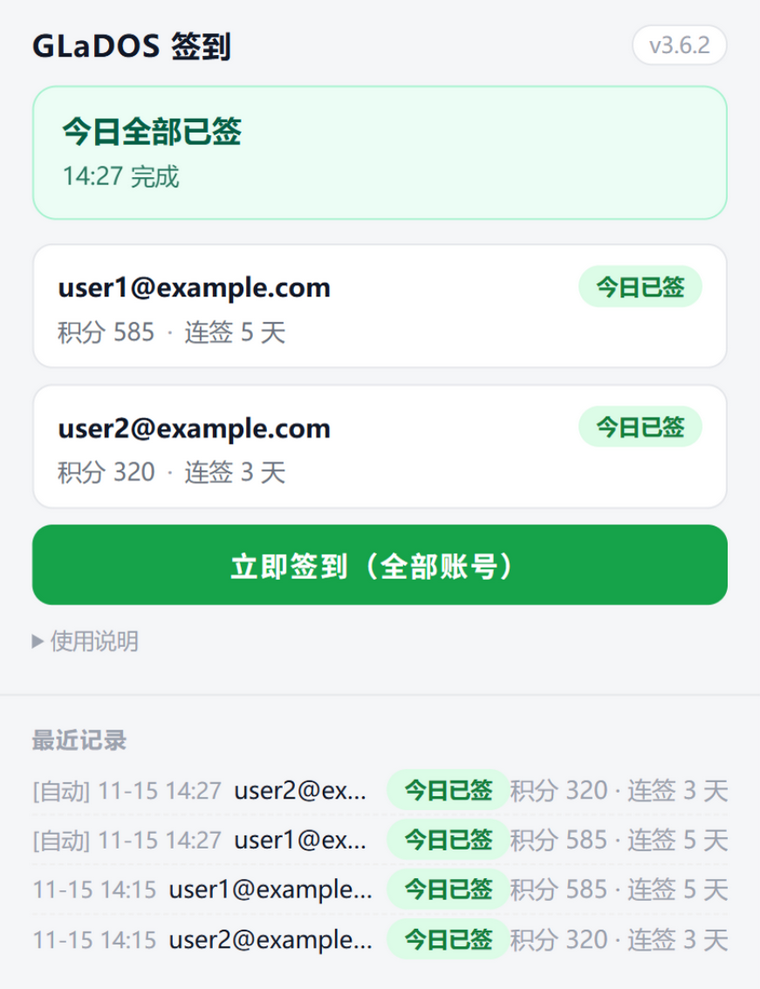
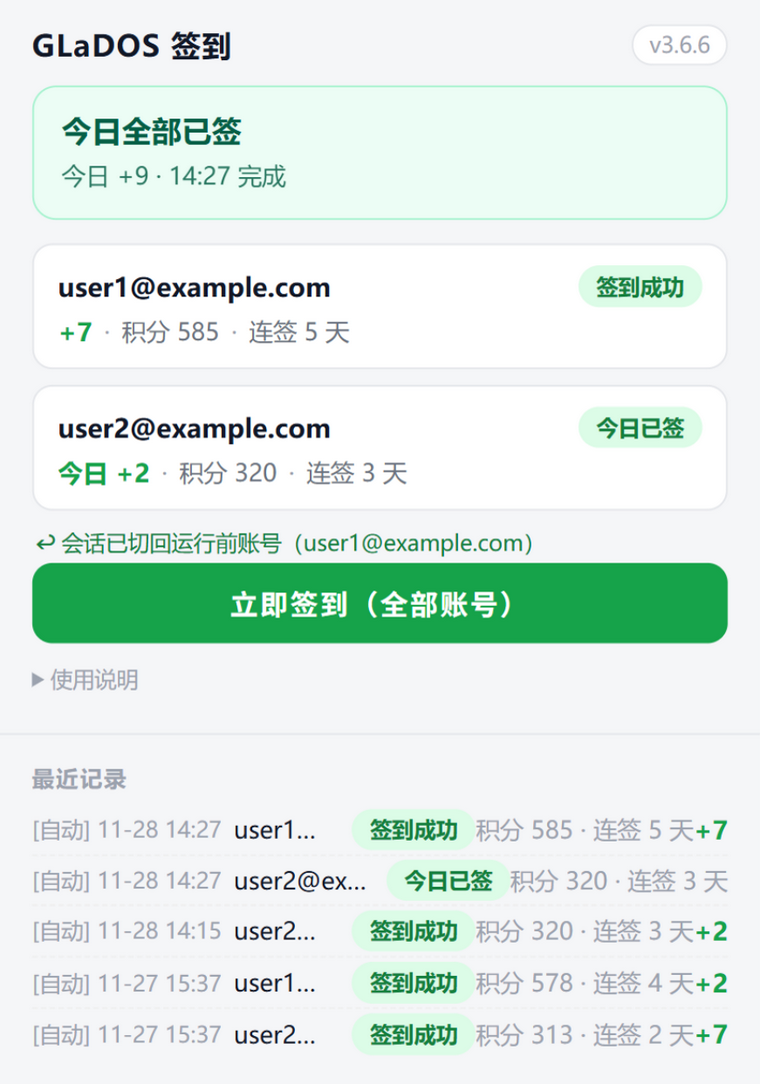
docs: 文档与代码全面同步——人工验证三形态触发、重跑跳过已签账号、今日收益截图重拍 v3.6.6、测试演示邮箱统一 example.com、tests/README 补齐 8 场景

diff --git a/tests/integration.test.js b/tests/integration.test.js
@@ -34,8 +34,8 @@ function makeEnv(opts = {}) {
   let nextTabId = 1;
   let sessionAccount = "orig";
   const accountsState = {
-    orig: { email: "orig@gmail.com", uid: 111222, signed: false, points: 108, streak: 1 },
-    other: { email: "other@gmail.com", uid: 333444, signed: true, points: 340, streak: 5 },
+    orig: { email: "orig@example.com", uid: 111222, signed: false, points: 108, streak: 1 },
+    other: { email: "other@example.com", uid: 333444, signed: true, points: 340, streak: 5 },
   };
   const cookieStore = {
     "gld:sess|glados.rocks|/": { name: "gld:sess", value: "orig_sess", domain: "glados.rocks", path: "/", secure: true },
@@ -121,7 +121,7 @@ function makeEnv(opts = {}) {
     const notFound = { ok: false, status: 404, json: async () => { throw new Error("404"); }, text: async () => "Not Found" };
     if (u === "/api/user/accounts") {
       if (opts.loggedOut || !accountsState[sessionAccount]) return json({ code: -2, message: "session invalid" });
-      return json({ code: 0, data: [{ userId: 333444, email: "other@gmail.com" }] });
+      return json({ code: 0, data: [{ userId: 333444, email: "other@example.com" }] });
     }
     if (u === "/api/user/info") {
       if (opts.loggedOut || !accountsState[sessionAccount]) return json({ code: -2 });
@@ -253,11 +253,11 @@ async function scenarioFreshSuccess() {
     "账号0 真签到成功 +7",
     JSON.stringify(res[0]).slice(0, 200)
   );
-  ok(res[0].who === "orig@gmail.com", "row0 邮箱来自身份接口");
+  ok(res[0].who === "orig@example.com", "row0 邮箱来自身份接口");
   ok(res[0].balance === 108 && res[0].streak === 1, "row0 积分/连签来自 /user/points");
-  ok(res[1].status === "already" && res[1].who === "other@gmail.com", "账号1 切换后已签（身份核实）");
+  ok(res[1].status === "already" && res[1].who === "other@example.com", "账号1 切换后已签（身份核实）");
   ok(res[1].balance === 340, "账号1 积分 340");
-  ok(res[2].status === "restored" && /orig@gmail\.com/.test(res[2].message), "还原行已切回原账号");
+  ok(res[2].status === "restored" && /orig@example.com/.test(res[2].message), "还原行已切回原账号");
   ok(E.switchLog.join(",") === "333444,111222", "切换序列：先切他人 333444，再切回 111222");
   ok(E.store.lastSuccessDate === new Date().toLocaleDateString("sv-SE"), "lastSuccessDate=今日");
   ok(!("glados-retry" in E.alarms), "成功后无重试闹钟");
@@ -373,8 +373,8 @@ async function scenarioRerun() {
   new Function("chrome", src)(E.chrome);
   const today = new Date().toLocaleDateString("sv-SE");
   E.store.history = [
-    { date: today, time: "14:27", who: "orig@gmail.com", status: "success", points: 6 },
-    { date: today, time: "14:27", who: "other@gmail.com", status: "already", points: 0 },
+    { date: today, time: "14:27", who: "orig@example.com", status: "success", points: 6 },
+    { date: today, time: "14:27", who: "other@example.com", status: "already", points: 0 },
   ];
   await E.msgLC.fire({ cmd: "run" }, null, () => {});
   await E.waitDone();
@@ -399,7 +399,7 @@ async function scenarioWatchdog() {
     trigger: "auto",
     tabId: tab.id,
     heartbeat: Date.now() - 100000, // 心跳已死 100 秒
-    accounts: [{ who: "orig@gmail.com", status: "signing" }],
+    accounts: [{ who: "orig@example.com", status: "signing" }],
     snapshot: [{ name: "gld:sess", value: "orig_sess", domain: "glados.rocks", path: "/", secure: true }],
   };
   E.store.running = true;

diff --git a/tests/background.test.js b/tests/background.test.js
@@ -21,18 +21,18 @@ const t = (fn, name, input, want) => {
 };
 
 // ===== findPoints：宽松积分探测 =====
-t(findPoints, "顶层 points", { userId: 1, email: "a@b.c", points: 660 }, 660);
+t(findPoints, "顶层 points", { userId: 1, email: "a@example.com", points: 660 }, 660);
 t(findPoints, "字符串数字", { points: "660.5" }, 660.5);
 t(findPoints, "嵌套两层", { user: { profile: { points: 123 } }, email: "x" }, 123);
 t(findPoints, "PointBalance 大小写", { PointBalance: 88 }, 88);
 t(findPoints, "数组内", { list: [{ points: 7.2 }] }, 7.2);
-t(findPoints, "无字段返回 null", { userId: 1, email: "a@b.c", leftDays: 225 }, null);
+t(findPoints, "无字段返回 null", { userId: 1, email: "a@example.com", leftDays: 225 }, null);
 t(findPoints, "非数字不取", { points: "n/a", email: "x" }, null);
 t(findPoints, "null 输入", null, null);
 t(findPoints, "普通值输入", 42, null);
 
 // ===== findEmail：宽松邮箱探测 =====
-t(findEmail, "顶层 email", { email: "a@b.c", points: 1 }, "a@b.c");
+t(findEmail, "顶层 email", { email: "a@example.com", points: 1 }, "a@example.com");
 t(findEmail, "嵌套 data.user", { code: 0, data: { user: { email: "x@y.z" } } }, "x@y.z");
 t(findEmail, "Email 字段大小写", { Email: "Q@W.E" }, "Q@W.E");
 t(findEmail, "email 字段但无 @ 跳过", { email: "n/a", name: "u", contact: { mail: "m@n.o" } }, "m@n.o");
@@ -40,11 +40,11 @@ t(findEmail, "无邮箱", { username: "user1", points: 5 }, "");
 t(findEmail, "数组形态", [{ email: "p@q.r" }], "p@q.r");
 
 // ===== findUid：用户 id 探测（官方切换接口要 {userId}）=====
-t(findUid, "顶层 id", { id: 333444, email: "a@b.c" }, 333444);
+t(findUid, "顶层 id", { id: 333444, email: "a@example.com" }, 333444);
 t(findUid, "userId", { userId: 111222 }, 111222);
 t(findUid, "嵌套 data.user", { code: 0, data: { user: { id: "999" } } }, 999);
 t(findUid, "字符串数字", { user_id: "123" }, 123);
-t(findUid, "无 id 字段", { email: "a@b.c", points: 5 }, null);
+t(findUid, "无 id 字段", { email: "a@example.com", points: 5 }, null);
 
 console.log(fail === 0 ? "=== background 纯函数单测全部通过 ===" : fail + " 处失败");
 process.exit(fail === 0 ? 0 : 1);

diff --git a/tests/popup.test.js b/tests/popup.test.js
@@ -43,18 +43,18 @@ const check = (name, html, mustHave, mustNotHave) => {
 
 // 1) 横幅-成功态（今天已签 + 完成时间）
 api.renderBanner({ lastSuccessDate: today, history: [{ date: today, time: "14:04", status: "already" }] },
-  [{ who: "a@b.c", status: "already", points: 0, balance: 308, streak: 3 }], false);
+  [{ who: "a@example.com", status: "already", points: 0, balance: 308, streak: 3 }], false);
 check("横幅-成功", captured["banner:cls"] + "|" + captured["banner:html"],
   ["banner ok", "今日全部已签", "14:04 完成"], ["今日 +"]);
 
 // 2) 横幅-成功态带今日收益（第 4 参数：从历史汇总的今日 point）
 api.renderBanner({ lastSuccessDate: today, history: [{ date: today, time: "14:04", status: "success" }] },
-  [{ who: "a@b.c", status: "success", points: 7, balance: 315 }], false, 7);
+  [{ who: "a@example.com", status: "success", points: 7, balance: 315 }], false, 7);
 check("横幅-增量", captured["banner:html"], ["今日 +7"], []);
 
 // 3) 横幅-运行态（1/2 + 实时动作）
 api.renderBanner({ running: true, progress: "14:04 已完成 1/2 · 当前签到 45s" },
-  [{ who: "a@b.c", status: "already" }, { who: "b@qq.com", status: "signing", detail: "等待验证结果 (45s)" }], true);
+  [{ who: "a@example.com", status: "already" }, { who: "b@example.com", status: "signing", detail: "等待验证结果 (45s)" }], true);
 check("横幅-运行", captured["banner:cls"] + "|" + captured["banner:html"],
   ["banner run", "签到中 1/2", "等待验证结果 (45s)"], []);
 

diff --git a/README.md b/README.md
@@ -9,11 +9,11 @@
 - **单浏览器多账号**：`/api/user/accounts` 枚举绑定账号 + `/api/user/accounts/switch` 官方切换，逐账号签到，结束切回原账号
 - **真浏览器流程**：完整页面渲染，Cloudflare Turnstile 由真实浏览器通过——不做 HTTP 模拟（纯 HTTP 请求会被判 `device-mismatch`）
 - **还原现场**：切回原账号采用官方切换接口 + 身份核实，cookie 快照兜底；还原为锦上添花，失败不影响签到成败
-- **稳健调度**：每天 12:15～12:45 / 19:00～19:20 窗口内随机时刻运行（行为更自然）；成功日全天只发一轮；次日启动补签；失败自动重试（≤3 次/天）
+- **稳健调度**：每天 12:15～12:45 / 19:00～19:20 窗口内随机时刻运行（行为更自然）；成功日全天只发一轮（重跑自动跳过已签账号，不重复点击）；次日启动补签；失败自动重试（≤3 次/天）
 - **看门狗**：签到运行期间每分钟巡逻；Service Worker 被浏览器回收导致中断时，约 1~2 分钟内自动清理现场并标记，绝不卡死
-- **人工验证兜底**：遇到 Cloudflare 点击式人机验证时，自动置顶签到页 + 弹系统通知，人工点一下后流程自动继续（验证不可被脚本替代，这是有意的）
+- **人工验证兜底**：遇到 Cloudflare 人机验证时（勾选框、点击后约 12 秒无结果、页面卡在「验证中」——三种形态都会触发），自动置顶签到页 + 弹系统通知，人工点一下后流程自动继续（验证不可被脚本替代，这是有意的）
 - **人味化**：按钮出现后随机停留 0.8~2.5 秒再点击
-- **面板**：状态横幅（签到中 / 今日全部已签 / 未完成 / 待签到）+ 每账号邮箱·积分·连签·当日增量 + 历史记录 + 实时进度
+- **面板**：状态横幅（签到中 / 今日全部已签 / 今日未完成 / 待签到）+ 每账号邮箱·积分·连签·当日增量 + 今日收益汇总 + 历史记录 + 实时进度
 
 ## 截图
 
@@ -34,7 +34,7 @@
 1. 闹钟唤醒后台 Service Worker → 快照当前 glados cookie
 2. 后台标签页打开签到页；并行请求账号列表与身份/积分（`/api/user/info`、`/api/user/points`）
 3. 向页面注入两段代码：MAIN world 补丁拦截签到接口响应；隔离探针每秒探测页面状态
-4. 按钮出现 → 随机停留 → 点击；Turnstile/proof 全由页面自身完成，拦截响应记录结果
+4. 按钮出现 → 随机停留 → 点击（当天已签的账号直接跳过，不点击不切换）；Turnstile/proof 全由页面自身完成，拦截响应记录结果
 5. 官方接口切换到下一账号 → 重载签到页 → 重复；全部完成后切回原账号
 6. 结果/历史/角标落盘；失败挂随机重试闹钟；SW 被回收由看门狗清理
 
@@ -47,7 +47,7 @@
 ## 常见问题
 
 - **面板显示"未登录"**：会话被官方踢掉了，在控制台重新登录即可，无需其他操作
-- **收到"需要人工点击验证"的通知**：Cloudflare 这次要求人工确认——点通知上的「去点验证」按钮（或面板上的同名入口）一键直达验证页，勾选人机验证框即可，签到会自动继续。验证解决后通知自动消失。这类验证不是每天都出现，且验证不可也不应被脚本替代
+- **收到"需要人工点击验证"的通知**：Cloudflare 这次要求人工确认——点通知上的「去点验证」按钮（或面板上的同名入口）一键直达验证页，勾选人机验证框即可，签到会自动继续。验证解决后通知自动消失。有时页面不出现勾选框、自己显示「验证中」，这种形态同样会在约 12 秒后触发通知与置顶。这类验证不是每天都出现，且验证不可也不应被脚本替代
 - **签到失败会怎样**：失败当天自动重试（≤3 次），另有 19:00～19:20 第二窗口兜底；全部失败会在面板和角标上标红，次日启动还会再补签
 - **运行期间 glados.rocks 页面会临时切到别的账号**：正常现象，一轮结束后自动切回（约 1 分钟）
 - **为什么用后台标签页而不是直接调接口**：新签到流程需要浏览器通过 Cloudflare Turnstile 并在页面内计算 proof，纯 HTTP 请求会被判定为自动化

diff --git a/tests/README.md b/tests/README.md
@@ -3,12 +3,13 @@
 纯 Node 脚本，无任何依赖：
 
 ```bash
-node tests/popup.test.js         # popup 渲染函数单测（横幅/账号卡/历史行/XSS）
+node tests/popup.test.js         # popup 渲染函数单测（横幅/账号卡/历史行/今日收益/XSS）
 node tests/background.test.js    # background 纯函数单测（积分/邮箱/uid 宽松探测）
-node tests/integration.test.js   # 端到端集成测试（模拟 chrome.* 与 GLaDOS 页面，跑完整签到状态机，约 1 分钟）
+node tests/integration.test.js   # 端到端集成测试（模拟 chrome.* 与 GLaDOS 页面，跑完整签到状态机，约 1 分半）
 ```
 
 原理：用 DOM/chrome 桩执行 popup.js 导出渲染函数断言输出；用正则从 background.js
 截取 findPoints/findEmail/findUid 纯函数逐例验证；集成测试模拟完整的浏览器与
-GLaDOS 服务端行为，对真实 background.js 跑五种场景（新鲜日全流程/会话失效/
-Turnstile 拒绝/人工点击验证/看门狗清理）。改动代码后请跑一遍再提交。
+GLaDOS 服务端行为，对真实 background.js 跑八种场景（新鲜日全流程/未登录/
+Turnstile 拒绝/人工点击验证/当天已签重跑跳过/点击后 12 秒无结果行为兜底/
+「验证中」卡住无按钮/看门狗清理）。改动代码后请跑一遍再提交。
